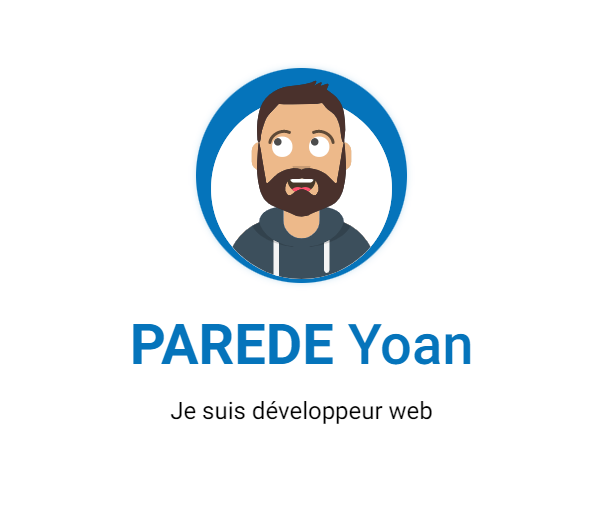
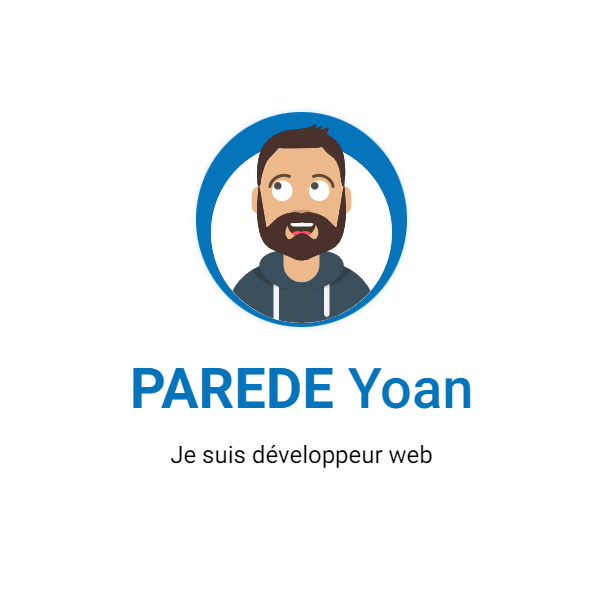
modif og:img

diff --git a/public/index.html b/public/index.html
@@ -14,9 +14,9 @@
     <meta property='og:title' content='Magin code'/>
     <meta property='og:description' content="Passionné depuis toujours par l'informatique et les nouvelles techniques.
                                             Je vous présente mes compétences, mon parcours ainsi que mes principales réalisations."/>
-    <meta property='og:image' content='https://www.zupimages.net/up/21/36/krt7.png'/>
-    <meta property='og:image:width' content= 701 />
-    <meta property='og:image:height' content= 612 />
+    <meta property='og:image' content='https://www.zupimages.net/up/21/36/y1s1.png'/>
+    <meta property='og:image:width' content= 601 />
+    <meta property='og:image:height' content= 601 />
     <link rel="apple-touch-icon" href="./logo-magin-code.svg" />
     
     <link rel="manifest" href="%PUBLIC_URL%/manifest.json" />
